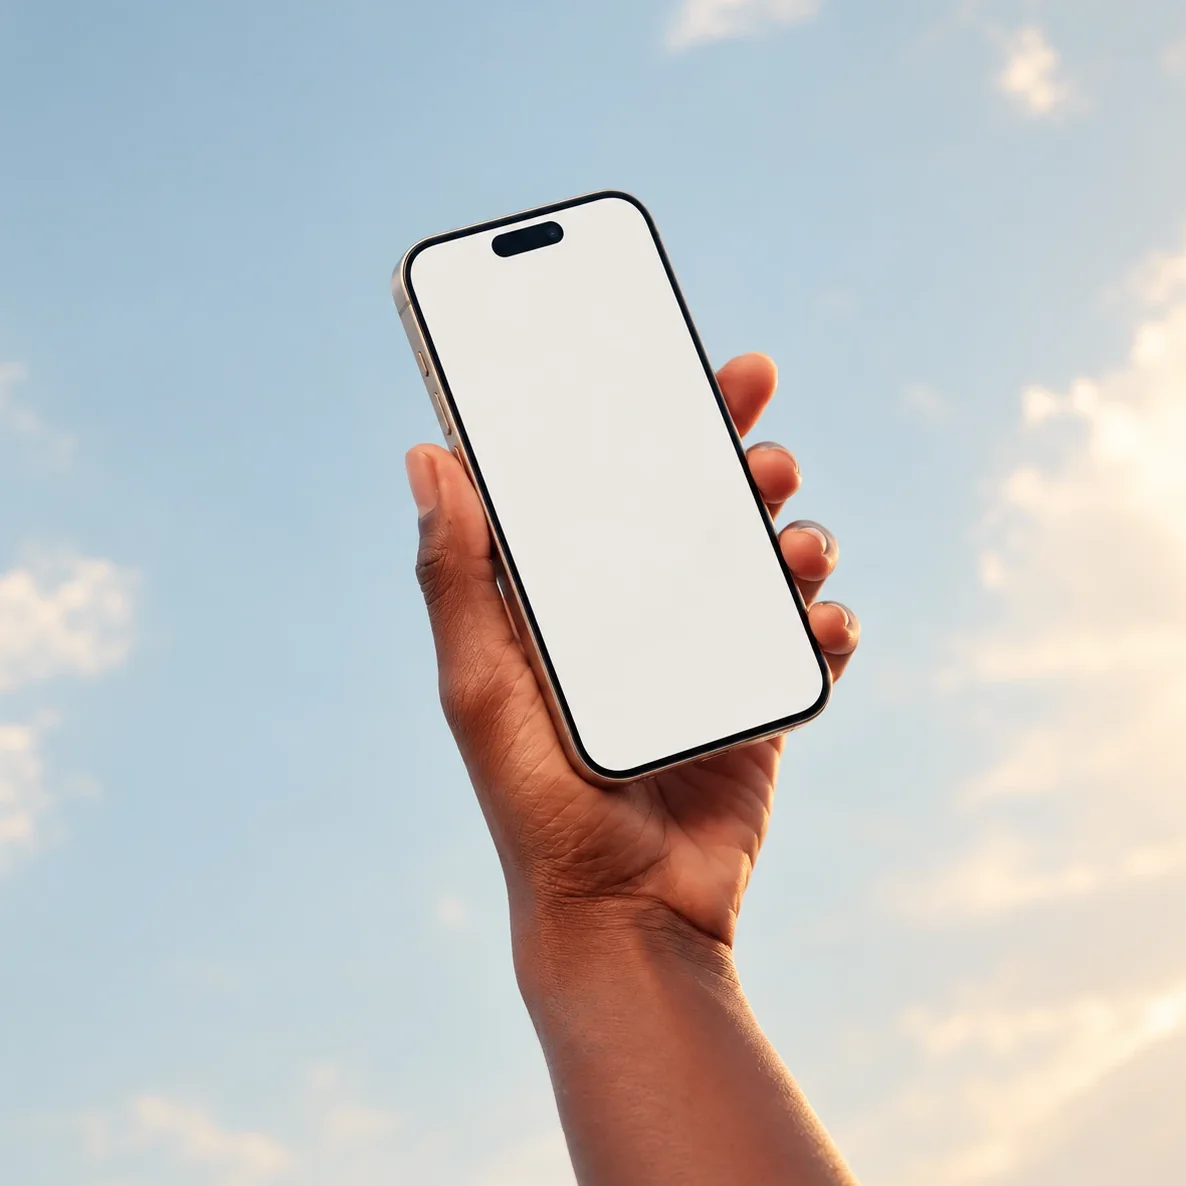
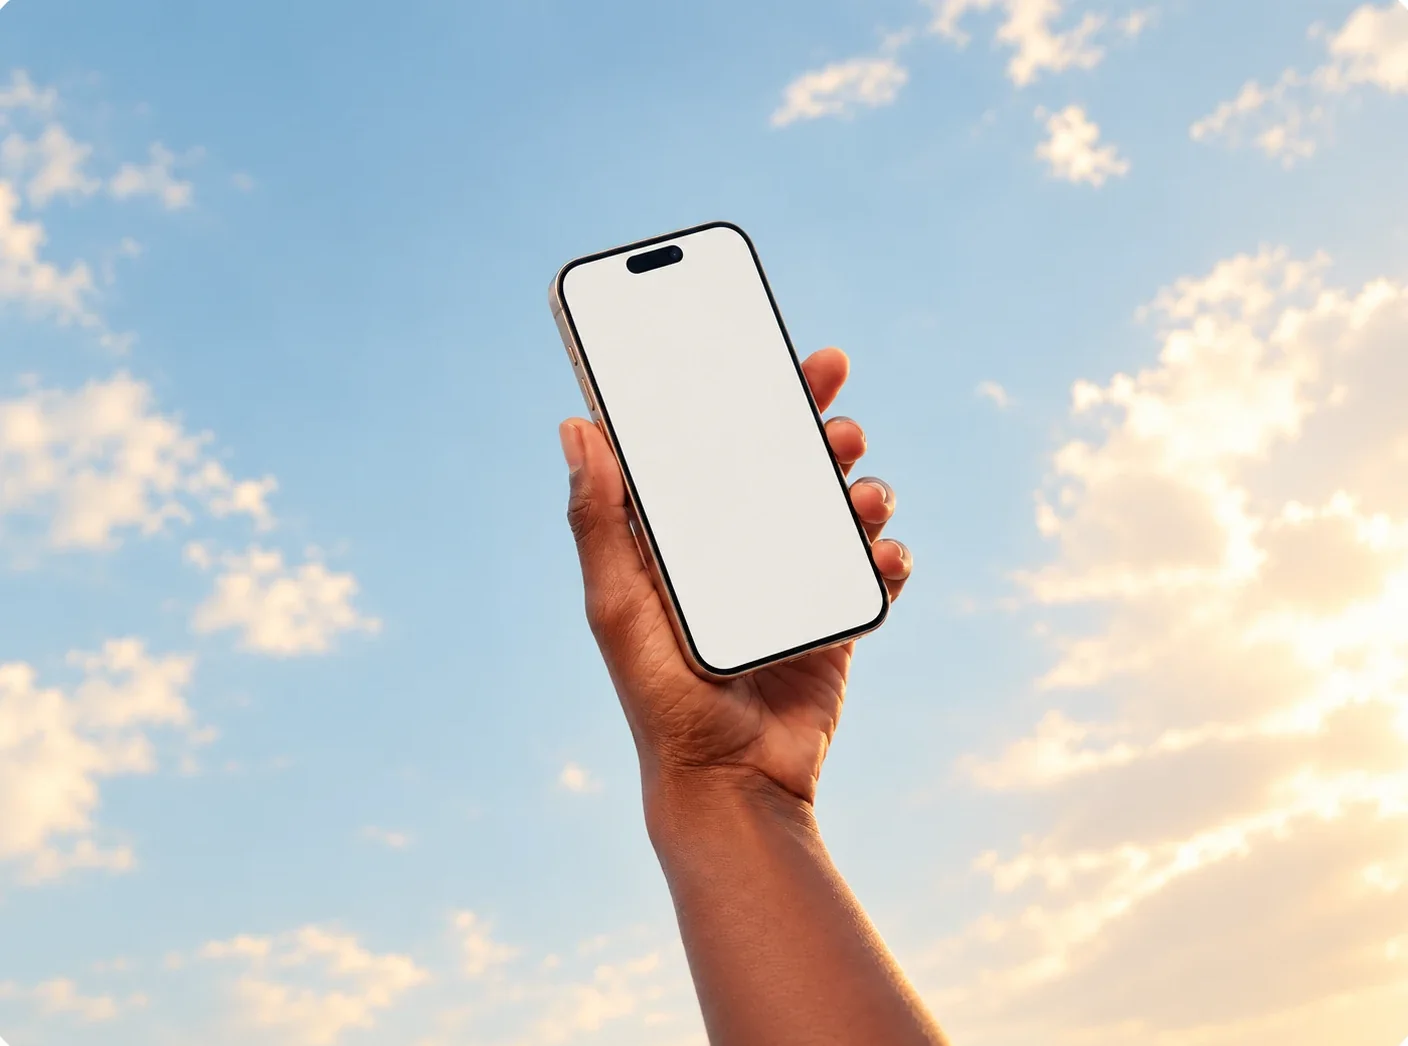
Home Finharbor card: the wide sky photo, screen matrix recomputed
Claude-Session: https://claude.ai/code/session_01WngJWpMH1VWhCcpzKxJs4z

diff --git a/index.html b/index.html
@@ -40,7 +40,7 @@
          browser); set before paint so the page never flashes. -->
     <meta name="color-scheme" content="light dark">
     <script>try{if(localStorage.getItem('theme')==='dark')document.documentElement.setAttribute('data-theme','dark');}catch(e){}</script>
-    <link rel="stylesheet" href="styles.css?v=fast174">
+    <link rel="stylesheet" href="styles.css?v=fast175">
     <!-- Social meta -->
     <meta property="og:type" content="website">
     <meta property="og:title" content="Bahruz - Portfolio">
@@ -194,7 +194,7 @@
                          while the card is on screen and sizes the layer to the photo). -->
                     <div class="project-image project-image--fhp" aria-hidden="true" data-fhp>
                         <div class="fhp-stage">
-                            <img class="fhp-photo" src="images/finharbor/phone-hand.webp?v=1" alt="" width="1186" height="1186" loading="lazy" decoding="async">
+                            <img class="fhp-photo" src="images/finharbor/phone-hand.webp?v=2" alt="" width="1408" height="1046" loading="lazy" decoding="async">
                             <div class="fhp-screen">
                                 <div class="fhp-page"><img src="images/finharbor/m-home.jpg?v=5" alt="" loading="lazy" decoding="async"></div>
                                 <img class="fhp-status" src="images/finharbor/m-status.png?v=6" alt="" loading="lazy" decoding="async">
@@ -479,7 +479,7 @@
         </div>
     </div>
 
-    <script src="script.js?v=20261014s"></script>
+    <script src="script.js?v=20261014t"></script>
     <script>
 
         // Mobile Menu Functionality

diff --git a/styles.css b/styles.css
@@ -9458,7 +9458,7 @@ html[data-theme="dark"] .case-browser {
    covers the panel (a size container), a little above centre so the whole
    phone shows. The Finharbor home is a flat 393 x 852 layer, laid onto the
    photo's screen by a perspective matrix worked out from the screen's four
-   corners (in the photo's own 1186px), then scaled with the photo (--k, set
+   corners (in the photo's own 1408px), then scaled with the photo (--k, set
    by script.js). Like the other image cards it runs to the card's edges. */
 .project-card:has(.project-image--fhp) {
     gap: 16px;
@@ -9484,9 +9484,9 @@ html[data-theme="dark"] .case-browser {
     position: absolute;
     left: 50%;
     top: 50%;
-    width: max(100cqw, 100cqh);
-    aspect-ratio: 1;
-    transform: translate(-50%, -40%);
+    width: max(140cqw, 200cqh);
+    aspect-ratio: 1408 / 1046;
+    transform: translate(-50%, -41%);
 }
 
 .fhp-photo {
@@ -9505,7 +9505,7 @@ html[data-theme="dark"] .case-browser {
     border-radius: 55px;
     background: #FFFFFF;
     transform-origin: 0 0;
-    transform: scale(var(--k)) matrix3d(0.631039, -0.151486, 0, 6.10549e-05, 0.204322, 0.584105, 0, -4.10303e-05, 0, 0, 1, 0, 400.6, 254.4, 0, 1);
+    transform: scale(var(--k)) matrix3d(0.5074, -0.115419, 0, 5.79524e-05, 0.16172, 0.458656, 0, -2.21201e-05, 0, 0, 1, 0, 555.4, 271.7, 0, 1);
 }
 
 .fhp-page {

diff --git a/about.html b/about.html
@@ -22,7 +22,7 @@
          browser); set before paint so the page never flashes. -->
     <meta name="color-scheme" content="light dark">
     <script>try{if(localStorage.getItem('theme')==='dark')document.documentElement.setAttribute('data-theme','dark');}catch(e){}</script>
-    <link rel="stylesheet" href="styles.css?v=fast174">
+    <link rel="stylesheet" href="styles.css?v=fast175">
     <link rel="stylesheet" href="about.css?v=fast1">
     <link rel="stylesheet" href="about-page.css?v=fast14">
     <!-- Social meta -->
@@ -263,7 +263,7 @@
         </div>
     </div>
 
-    <script src="script.js?v=20261014s"></script>
+    <script src="script.js?v=20261014t"></script>
     <script>
         // Mobile Menu Functionality
         function toggleMobileMenu() {

diff --git a/finharbor.html b/finharbor.html
@@ -21,7 +21,7 @@
          browser); set before paint so the page never flashes. -->
     <meta name="color-scheme" content="light dark">
     <script>try{if(localStorage.getItem('theme')==='dark')document.documentElement.setAttribute('data-theme','dark');}catch(e){}</script>
-    <link rel="stylesheet" href="styles.css?v=fast174">
+    <link rel="stylesheet" href="styles.css?v=fast175">
     <link rel="stylesheet" href="about.css?v=fast1">
     <!-- Social meta -->
     <meta property="og:type" content="website">
@@ -355,7 +355,7 @@
         </div>
     </div>
 
-    <script src="script.js?v=20261014s"></script>
+    <script src="script.js?v=20261014t"></script>
     <script>
         // Mobile Menu Functionality
         function toggleMobileMenu() {

diff --git a/myguava-business.html b/myguava-business.html
@@ -21,7 +21,7 @@
          browser); set before paint so the page never flashes. -->
     <meta name="color-scheme" content="light dark">
     <script>try{if(localStorage.getItem('theme')==='dark')document.documentElement.setAttribute('data-theme','dark');}catch(e){}</script>
-    <link rel="stylesheet" href="styles.css?v=fast174">
+    <link rel="stylesheet" href="styles.css?v=fast175">
     <link rel="stylesheet" href="about.css?v=fast1">
     <!-- Social meta -->
     <meta property="og:type" content="website">
@@ -349,7 +349,7 @@
         </div>
     </div>
 
-    <script src="script.js?v=20261014s"></script>
+    <script src="script.js?v=20261014t"></script>
     <script>
         // Mobile Menu Functionality
         function toggleMobileMenu() {

diff --git a/myguava-design-system.html b/myguava-design-system.html
@@ -22,7 +22,7 @@
          browser); set before paint so the page never flashes. -->
     <meta name="color-scheme" content="light dark">
     <script>try{if(localStorage.getItem('theme')==='dark')document.documentElement.setAttribute('data-theme','dark');}catch(e){}</script>
-    <link rel="stylesheet" href="styles.css?v=fast174">
+    <link rel="stylesheet" href="styles.css?v=fast175">
     <link rel="stylesheet" href="about.css?v=fast1">
     <!-- Social meta -->
     <meta property="og:type" content="website">
@@ -442,7 +442,7 @@
         </div>
     </div>
 
-    <script src="script.js?v=20261014s"></script>
+    <script src="script.js?v=20261014t"></script>
     <script>
         // Mobile Menu Functionality
         function toggleMobileMenu() {

diff --git a/myguava-payment.html b/myguava-payment.html
@@ -22,7 +22,7 @@
          browser); set before paint so the page never flashes. -->
     <meta name="color-scheme" content="light dark">
     <script>try{if(localStorage.getItem('theme')==='dark')document.documentElement.setAttribute('data-theme','dark');}catch(e){}</script>
-    <link rel="stylesheet" href="styles.css?v=fast174">
+    <link rel="stylesheet" href="styles.css?v=fast175">
     <link rel="stylesheet" href="about.css?v=fast1">
     <!-- Social meta -->
     <meta property="og:type" content="website">
@@ -415,7 +415,7 @@
         </div>
     </div>
 
-    <script src="script.js?v=20261014s"></script>
+    <script src="script.js?v=20261014t"></script>
     <script>
         // Mobile Menu Functionality
         function toggleMobileMenu() {

diff --git a/pos-terminal.html b/pos-terminal.html
@@ -22,7 +22,7 @@
          browser); set before paint so the page never flashes. -->
     <meta name="color-scheme" content="light dark">
     <script>try{if(localStorage.getItem('theme')==='dark')document.documentElement.setAttribute('data-theme','dark');}catch(e){}</script>
-    <link rel="stylesheet" href="styles.css?v=fast174">
+    <link rel="stylesheet" href="styles.css?v=fast175">
     <link rel="stylesheet" href="about.css?v=fast1">
     <!-- Social meta -->
     <meta property="og:type" content="website">
@@ -316,7 +316,7 @@
         </div>
     </div>
 
-    <script src="script.js?v=20261014s"></script>
+    <script src="script.js?v=20261014t"></script>
     <script>
         // Mobile Menu Functionality
         function toggleMobileMenu() {

diff --git a/remitone.html b/remitone.html
@@ -22,7 +22,7 @@
          browser); set before paint so the page never flashes. -->
     <meta name="color-scheme" content="light dark">
     <script>try{if(localStorage.getItem('theme')==='dark')document.documentElement.setAttribute('data-theme','dark');}catch(e){}</script>
-    <link rel="stylesheet" href="styles.css?v=fast174">
+    <link rel="stylesheet" href="styles.css?v=fast175">
     <link rel="stylesheet" href="about.css?v=fast1">
     <!-- Social meta -->
     <meta property="og:type" content="website">
@@ -442,7 +442,7 @@
         </div>
     </div>
 
-    <script src="script.js?v=20261014s"></script>
+    <script src="script.js?v=20261014t"></script>
     <script>
         // Mobile Menu Functionality
         function toggleMobileMenu() {

diff --git a/script.js b/script.js
@@ -2326,7 +2326,7 @@ window.caseClock = function (pad) {
     const panel = document.querySelector('[data-fhp]');
     if (!panel) return;
     const stage = panel.querySelector('.fhp-stage');
-    const NATIVE = 1186; // the photo's own width the screen matrix is worked out in
+    const NATIVE = 1408; // the photo's own width the screen matrix is worked out in
     function fit() { stage.style.setProperty('--k', (stage.clientWidth / NATIVE).toFixed(5)); }
     fit();
     if ('ResizeObserver' in window) new ResizeObserver(fit).observe(stage);
